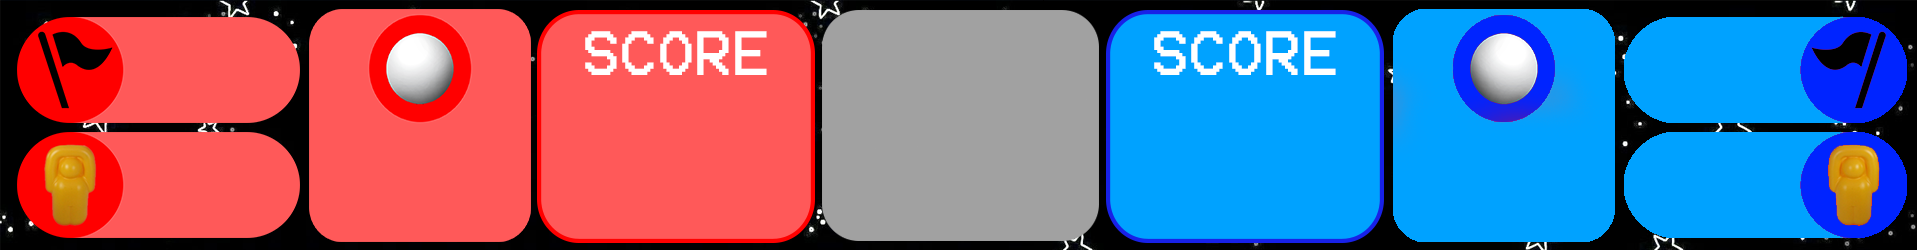
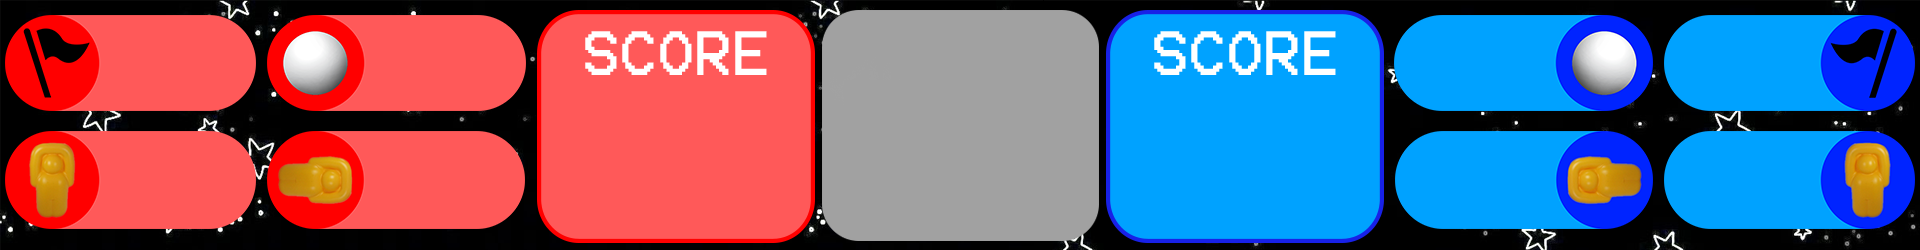
Updated UI to support two relic states

diff --git a/FMS/src/main/java/UI/text/TextHandler.java b/FMS/src/main/java/UI/text/TextHandler.java
@@ -10,41 +10,47 @@ class TextHandler {
 
     //Blue Data
     private ScoreText blueScore = new ScoreText(1250,200, 100);
-    private ScoreText blueRelic = new ScoreText(1725,215);
-    private ScoreText bluePingPong = new ScoreText(1502,205);
-    private ScoreText blueFlag = new ScoreText(1725,100);
+    private ScoreText blueStandingRelic = new ScoreText(1725 + 27,215 - 7);
+    private ScoreText blueFallenRelic = new ScoreText(1502 - 15,215 - 7);
+    private ScoreText bluePingPong = new ScoreText(1502 - 15,100-8);
+    private ScoreText blueFlag = new ScoreText(1725 + 27,100 - 8);
 
     //Red Data
     private ScoreText redScore = new ScoreText(680,200, 100);
-    private ScoreText redRelic = new ScoreText(200,215);
-    private ScoreText redPingPong = new ScoreText(421,205);
-    private ScoreText redFlag = new ScoreText(200,100);
+    private ScoreText redStandingRelic = new ScoreText(200 - 27,215 - 7);
+    private ScoreText redFallenRelic = new ScoreText(421 + 15,215-7);
+    private ScoreText redPingPong = new ScoreText(421 + 15,100-8);
+    private ScoreText redFlag = new ScoreText(200 - 27,100 - 8);
 
     void init(Pane p){
 
         //Initialize All Text
         time.updateText("00:00");
         gameMode.updateText("INIT");
-        blueScore.updateText("000");
-        blueRelic.updateText("0");
-        bluePingPong.updateText("000");
+        blueScore.updateText("0");
+        blueStandingRelic.updateText("0");
+        blueFallenRelic.updateText("0");
+        bluePingPong.updateText("0");
         blueFlag.updateText("0");
-        redScore.updateText("000");
-        redRelic.updateText("0");
-        redPingPong.updateText("000");
+        redScore.updateText("0");
+        redStandingRelic.updateText("0");
+        redFallenRelic.updateText("0");
+        redPingPong.updateText("0");
         redFlag.updateText("0");
-        p.getChildren().addAll(gameMode, time, blueScore, blueRelic, bluePingPong, blueFlag, redScore, redRelic, redPingPong, redFlag);
+        p.getChildren().addAll(gameMode, time, blueScore, blueStandingRelic, blueFallenRelic, bluePingPong, blueFlag, redScore, redStandingRelic, redFallenRelic, redPingPong, redFlag);
     }
 
     void update(){
         gameMode.updateText(UIStateMachine.getGameMode());
         time.updateText(UIStateMachine.getTime());
         blueScore.updateText("" + UIStateMachine.getBlueScore());
-        blueRelic.updateText("" + UIStateMachine.getBlueRelic());
+        blueStandingRelic.updateText("" + UIStateMachine.getBlueStandingRelic());
+        blueFallenRelic.updateText("" + UIStateMachine.getBlueFallenRelic());
         bluePingPong.updateText("" + UIStateMachine.getBluePingPong());
         blueFlag.updateText("" + UIStateMachine.getBlueFlag());
         redScore.updateText("" + UIStateMachine.getRedScore());
-        redRelic.updateText("" + UIStateMachine.getRedRelic());
+        redStandingRelic.updateText("" + UIStateMachine.getRedStandingRelic());
+        redFallenRelic.updateText("" + UIStateMachine.getRedFallenRelic());
         redPingPong.updateText("" + UIStateMachine.getRedPingPong());
         redFlag.updateText("" + UIStateMachine.getRedFlag());
 

diff --git a/FMS/src/main/java/UI/text/UIStateMachine.java b/FMS/src/main/java/UI/text/UIStateMachine.java
@@ -9,11 +9,13 @@ public class UIStateMachine {
     private static String gameMode = "AUTO";
     private static String time = "00:00";
     private static int blueScore = 0;
-    private static int blueRelic = 0;
+    private static int blueStandingRelic = 0;
+    private static int blueFallenRelic = 0;
     private static int bluePingPong = 0;
     private static int blueFlag = 0;
     private static int redScore = 0;
-    private static int redRelic = 0;
+    private static int redStandingRelic = 0;
+    private static int redFallenRelic = 0;
     private static int redPingPong = 0;
     private static int redFlag = 0;
 
@@ -51,8 +53,12 @@ public class UIStateMachine {
         UIStateMachine.blueFlag = blueFlag;
     }
 
-    public static void setBlueRelic(int blueRelic) {
-        UIStateMachine.blueRelic = blueRelic;
+    public static void setBlueStandingRelic(int blueStandingRelic) {
+        UIStateMachine.blueStandingRelic = blueStandingRelic;
+    }
+
+    public static void setBlueFallenRelic(int blueFallenRelic) {
+        UIStateMachine.blueFallenRelic = blueFallenRelic;
     }
 
     //Red Score Setters
@@ -68,10 +74,13 @@ public class UIStateMachine {
         UIStateMachine.redFlag = redFlag;
     }
 
-    public static void setRedRelic(int redRelic) {
-        UIStateMachine.redRelic = redRelic;
+    public static void setRedStandingRelic(int redStandingRelic) {
+        UIStateMachine.redStandingRelic = redStandingRelic;
     }
 
+    public static void setRedFallenRelic(int redFallenRelic) {
+        UIStateMachine.redFallenRelic = redFallenRelic;
+    }
 
     //Blue Score Getters
     public static int getBlueScore() {
@@ -86,8 +95,12 @@ public class UIStateMachine {
         return blueFlag;
     }
 
-    public static int getBlueRelic() {
-        return blueRelic;
+    public static int getBlueStandingRelic() {
+        return blueStandingRelic;
+    }
+
+    public static int getBlueFallenRelic() {
+        return blueFallenRelic;
     }
 
 
@@ -104,10 +117,13 @@ public class UIStateMachine {
         return redFlag;
     }
 
-    public static int getRedRelic() {
-        return redRelic;
+    public static int getRedStandingRelic() {
+        return redStandingRelic;
     }
 
+    public static int getRedFallenRelic() {
+        return redFallenRelic;
+    }
 
     //Match Status Getters
     public static String getTime(){

diff --git a/FMS/src/main/java/fms/match/Match.java b/FMS/src/main/java/fms/match/Match.java
@@ -109,13 +109,15 @@ public class Match {
 
             //Update Blue Values
             UIStateMachine.setBlueScore(blue.getTotalScore());
-            UIStateMachine.setBlueRelic(blue.getStandingRelics());
+            UIStateMachine.setBlueStandingRelic(blue.getStandingRelics());
+            UIStateMachine.setBlueFallenRelic(blue.getFallenRelics());
             UIStateMachine.setBlueFlag(blue.getFlags());
             UIStateMachine.setBluePingPong(blue.getMoonRocks());
 
             //Update Red Values
             UIStateMachine.setRedScore(red.getTotalScore());
-            UIStateMachine.setRedRelic(red.getStandingRelics());
+            UIStateMachine.setRedStandingRelic(red.getStandingRelics());
+            UIStateMachine.setRedFallenRelic(red.getFallenRelics());
             UIStateMachine.setRedFlag(red.getFlags());
             UIStateMachine.setRedPingPong(red.getMoonRocks());
         }

diff --git a/FMS/src/main/java/networkHandler/clientBase/DemoClient.java b/FMS/src/main/java/networkHandler/clientBase/DemoClient.java
@@ -36,10 +36,10 @@ class DemoClient extends Client {
             } else if (splited[0].toLowerCase().contains("relic")) {
                 if (splited[1].toLowerCase().contains("blue")) {
                     System.out.println("Setting blue relic to " + splited[2]);
-                    UIStateMachine.setBlueRelic(Integer.parseInt(splited[2]));
+                    UIStateMachine.setBlueStandingRelic(Integer.parseInt(splited[2]));
                 } else if (splited[1].toLowerCase().contains("red")) {
                     System.out.println("Setting red relic to " + splited[2]);
-                    UIStateMachine.setRedRelic(Integer.parseInt(splited[2]));
+                    UIStateMachine.setRedStandingRelic(Integer.parseInt(splited[2]));
                 }
             } else if (splited[0].toLowerCase().contains("ping")) {
                 if (splited[1].toLowerCase().contains("blue")) {

diff --git a/FMS/src/main/java/Main.java b/FMS/src/main/java/Main.java
@@ -1,6 +1,7 @@
 package main.java;
 
 import main.java.UI.AudioManager;
+import main.java.UI.UIMain;
 import main.java.UI.text.UIStateMachine;
 import main.java.fms.FMSStates;
 import main.java.fms.match.Match;
@@ -28,7 +29,7 @@ public class Main {
         NetworkMain.start();
 
         //Launch the UI system
-        //UIMain.start(args);
+        UIMain.start(args);
 
     }
 

diff --git a/FMS/src/main/java/fms/match/Alliance.java b/FMS/src/main/java/fms/match/Alliance.java
@@ -78,7 +78,7 @@ public class Alliance {
         return color;
     }
 
-    private int getFallenRelics(){
+    int getFallenRelics(){
         return fallenRelics;
     }
 
